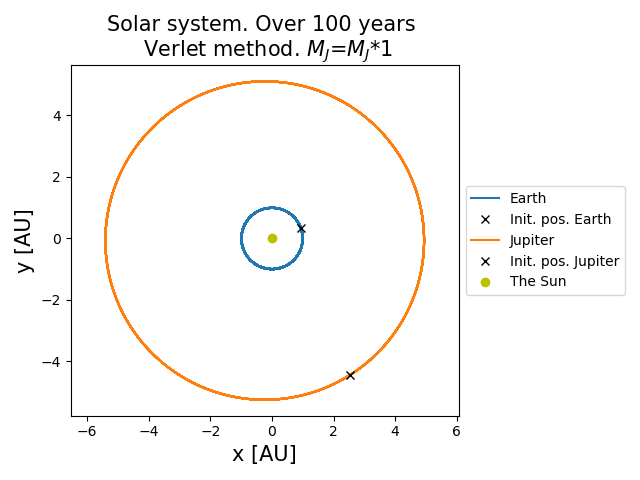
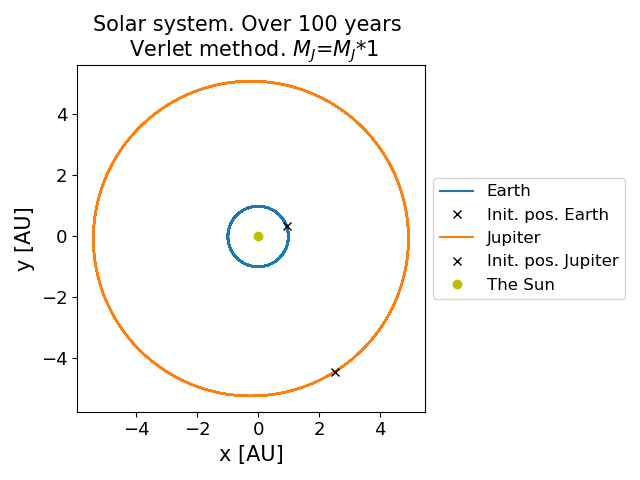
New figures

diff --git a/Project3/main.py b/Project3/main.py
@@ -38,8 +38,7 @@ def Energy(vel, pos, time, title=''):
     plt.plot(time, U, label="Potential")
     plt.plot(time, K, label="Kinetic")
     plt.plot(time, U+K, label="Total energy")
-    plt.xticks(fontsize=13)
-    plt.yticks(fontsize=13)
+    plt.xticks(fontsize=13); plt.yticks(fontsize=13)
     plt.title(title, fontsize=15)
     plt.xlabel("Time [yr]", fontsize=15)
     plt.ylabel("Energy [J] ??", fontsize=15)
@@ -52,31 +51,26 @@ def angular_momentum(vel, pos, time, title=''):
     time = time[:-1]
 
     plt.plot(time, L)
-    plt.xticks(fontsize=13)
-    plt.yticks(fontsize=13)
+    plt.xticks(fontsize=13); plt.yticks(fontsize=13)
     plt.title(title, fontsize=15)
     plt.xlabel("Time [yr]", fontsize=15)
     plt.ylabel("??", fontsize=15)
 
 def Figure(title=''):
 
-    plt.xticks(fontsize=13)
-    plt.yticks(fontsize=13)
-
     plt.title(title, fontsize=15)
     plt.plot(0,0,'yo', label='The Sun') # Plotte radius til solen kanskje..?
     plt.xlabel("x [AU]", fontsize=15); plt.ylabel("y [AU]", fontsize=15)
     plt.legend(loc='center left', bbox_to_anchor=(1, 0.5), fontsize=12)
+    plt.xticks(fontsize=13); plt.yticks(fontsize=13)
     plt.axis('equal'); plt.tight_layout()
 
 def Figure_noSunPlot(title=''):
 
-    plt.xticks(fontsize=13)
-    plt.yticks(fontsize=13)
-
     plt.title(title, fontsize=15)
     plt.xlabel("x [AU]", fontsize=15); plt.ylabel("y [AU]", fontsize=15)
     plt.legend(loc='center left', bbox_to_anchor=(1, 0.5), fontsize=12)
+    plt.xticks(fontsize=13); plt.yticks(fontsize=13)
     plt.axis('equal'); plt.tight_layout()
 
 def Ex3cd(n, T=10, Np=1, test_stability=False):
@@ -278,6 +272,7 @@ def Ex3h(n, T, planet_names):
 
     planet_names : Import of wanted planets (and/or Sun)
     """
+    #n = int(1e5)
     planets = SolarSystem(planet_names)
     Np      = len(planets.mass)          # Nr. of planets
 
